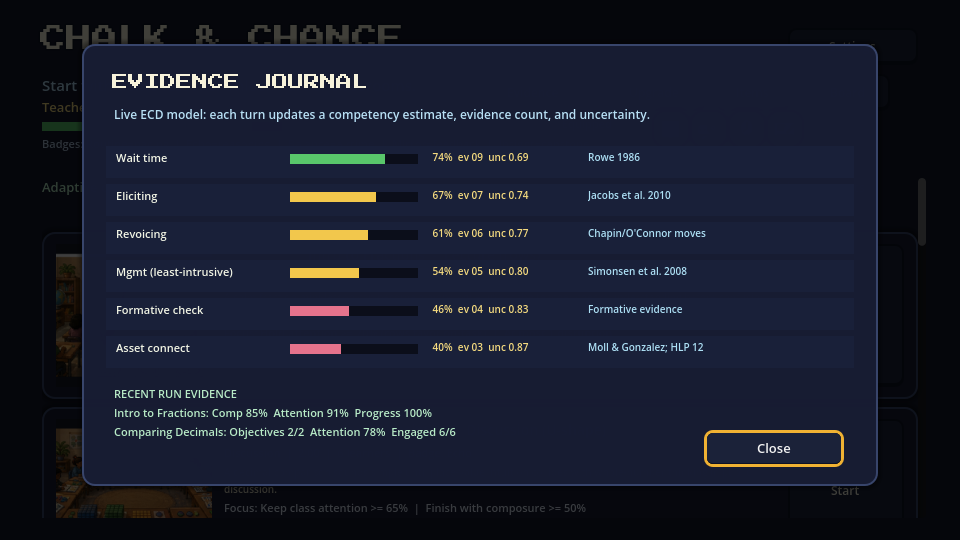
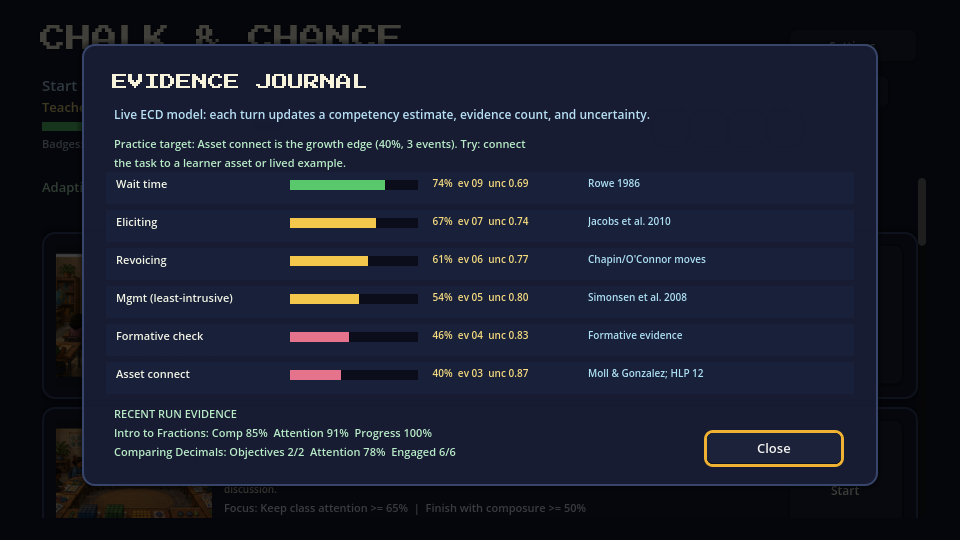
Add evidence practice target

diff --git a/landing/index.html b/landing/index.html
@@ -213,7 +213,7 @@
         <figure><div class="shot"><img class="pixel" src="img/shot_briefing.png" alt="Mission briefing overlay" /></div><figcaption><b>Mission briefing.</b> Scenario art, story, success criteria, reward, and evidence edge.</figcaption></figure>
         <figure><div class="shot"><img class="pixel" src="img/shot_encounter.png" alt="One-on-one encounter" /></div><figcaption><b>Encounter.</b> Read the student, wait, choose a teaching move, and protect composure.</figcaption></figure>
         <figure><div class="shot"><img class="pixel" src="img/shot_freetext.png" alt="Free text mode" /></div><figcaption><b>Free text.</b> Type teacher talk and let the game classify the move.</figcaption></figure>
-        <figure><div class="shot"><img class="pixel" src="img/shot_evidence.png" alt="Evidence Journal" /></div><figcaption><b>Evidence Journal.</b> Competency estimates, evidence count, uncertainty, and anchors.</figcaption></figure>
+        <figure><div class="shot"><img class="pixel" src="img/shot_evidence.png" alt="Evidence Journal" /></div><figcaption><b>Evidence Journal.</b> Competency estimates, uncertainty, anchors, and the next practice target.</figcaption></figure>
         <figure><div class="shot"><img class="pixel" src="img/shot_items.png" alt="Item loadout" /></div><figcaption><b>Item loadout.</b> Classroom tools support composure, noticing, equity, wait time, and goals.</figcaption></figure>
         <figure><div class="shot"><img class="pixel" src="img/shot_lecture.png" alt="Lecture mode" /></div><figcaption><b>Lecture.</b> Present, question, wait, repair, and check while students react.</figcaption></figure>
         <figure><div class="shot"><img class="pixel" src="img/shot_gym.png" alt="Gym capstone" /></div><figcaption><b>Gym capstone.</b> Resolve multiple students while order and composure remain under pressure.</figcaption></figure>

diff --git a/README.md b/README.md
@@ -15,7 +15,7 @@ The current build includes:
 - Multiple classroom formats: discussion, lecture, group work, independent work, one-on-one encounter, and gym capstone.
 - Free-text teacher talk: players can type their own line and the game maps it to a teaching move.
 - Explicit debrief panels across encounter, lecture, gym, group check-in, and overworld lessons, with score drivers, next focus, rewards, and Continue/replay actions.
-- Evidence Journal: live ECD/Elo-style competency estimates, evidence counts, uncertainty, research anchors, and recent run evidence.
+- Evidence Journal: live ECD/Elo-style competency estimates, evidence counts, uncertainty, research anchors, recent run evidence, and a practice target for the next high-leverage move.
 - Level-up, badge rewards, item rewards, upgrade points, and leaderboard records.
 - Lesson-plan import: paste or load a lesson plan and generate a playable scenario.
 - Product QA gates for UI clipping/overlap, visual assets, scenario integrity, telemetry, and playable learning loops.

diff --git a/docs/productization_qa.md b/docs/productization_qa.md
@@ -14,7 +14,7 @@ This checklist treats the game as a releasable educational product, not only a p
 - Evidence layer: telemetry/xAPI writes turn evidence and competency signals.
 - Product motivation: Hub shows level progress, next upgrade XP, items, adaptive practice recommendation, and local leaderboard.
 - Mission clarity: selecting a mission opens a briefing with scenario art, story hook, success conditions, evidence edge, reward, and first-move guidance before rehearsal starts.
-- Learning evidence visibility: Hub includes an Evidence Journal showing competency estimates, evidence counts, uncertainty, research anchors, and recent run evidence.
+- Learning evidence visibility: Hub includes an Evidence Journal showing competency estimates, evidence counts, uncertainty, research anchors, recent run evidence, and an evidence-backed next practice target.
 - Debrief consistency: encounter, lecture, gym, group check-in, and overworld lesson endings show explicit score drivers, next focus, reward/progression information where applicable, and player-controlled Continue/replay actions.
 
 ## One Command